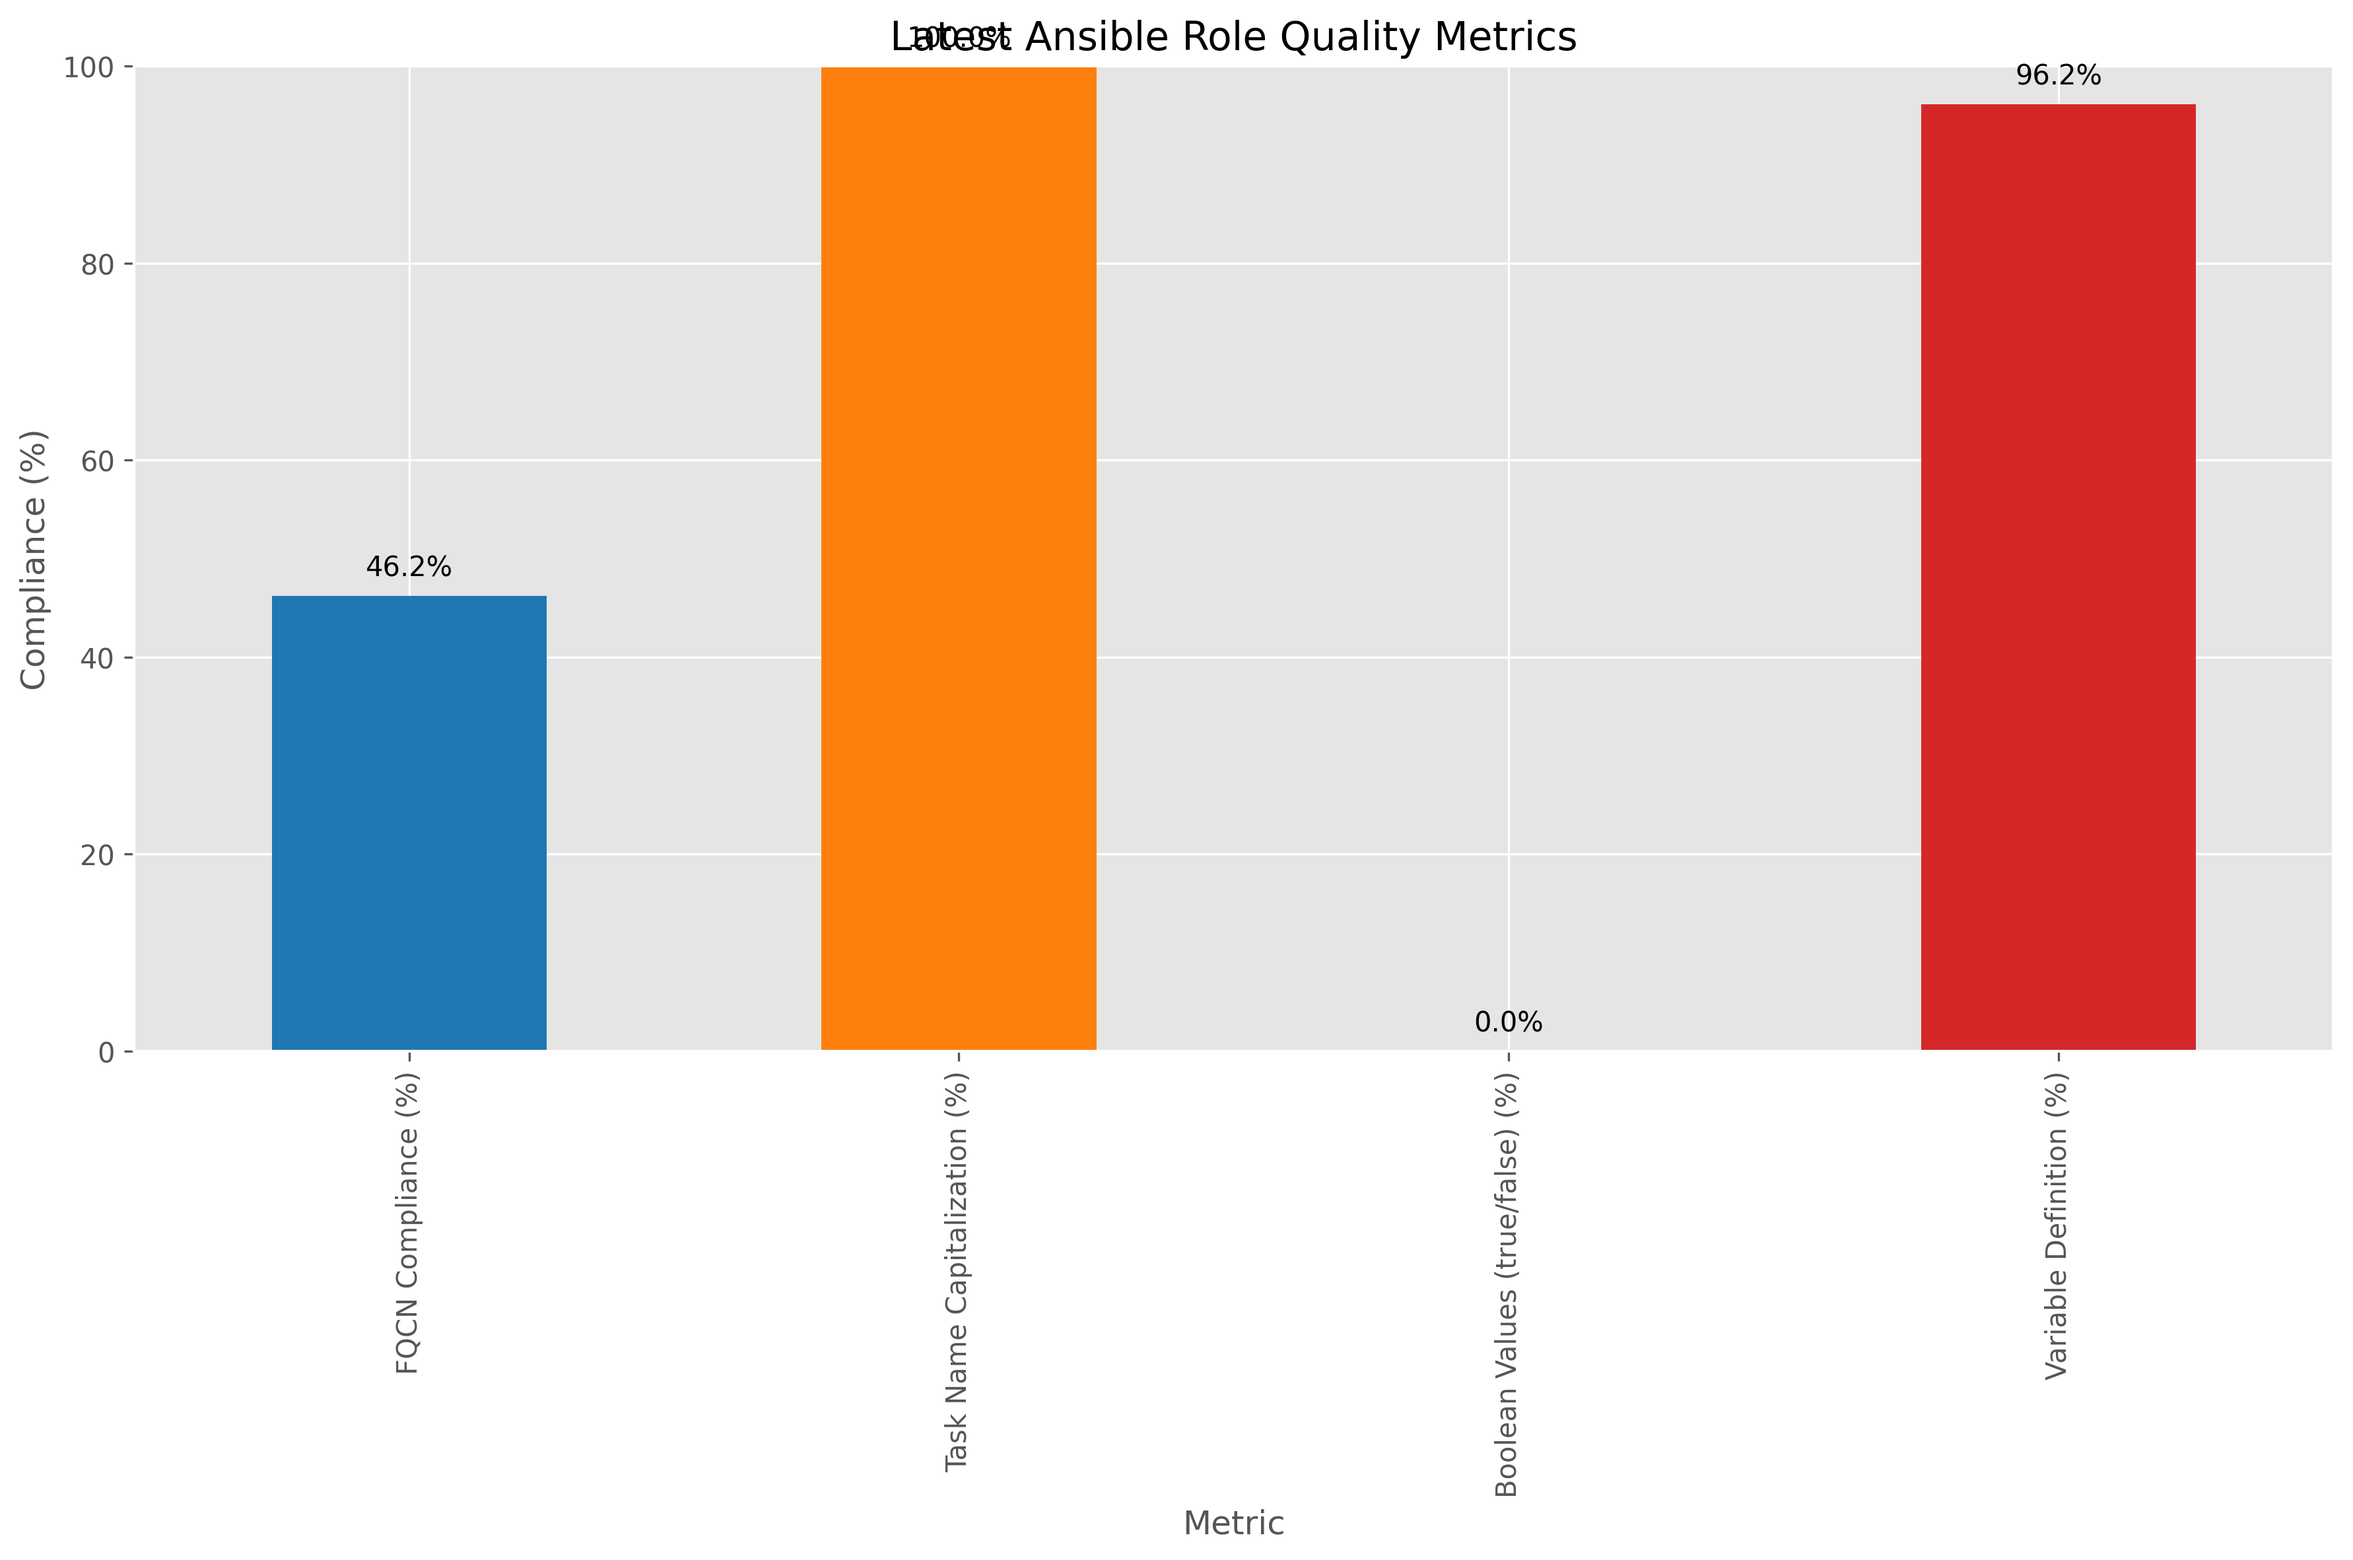
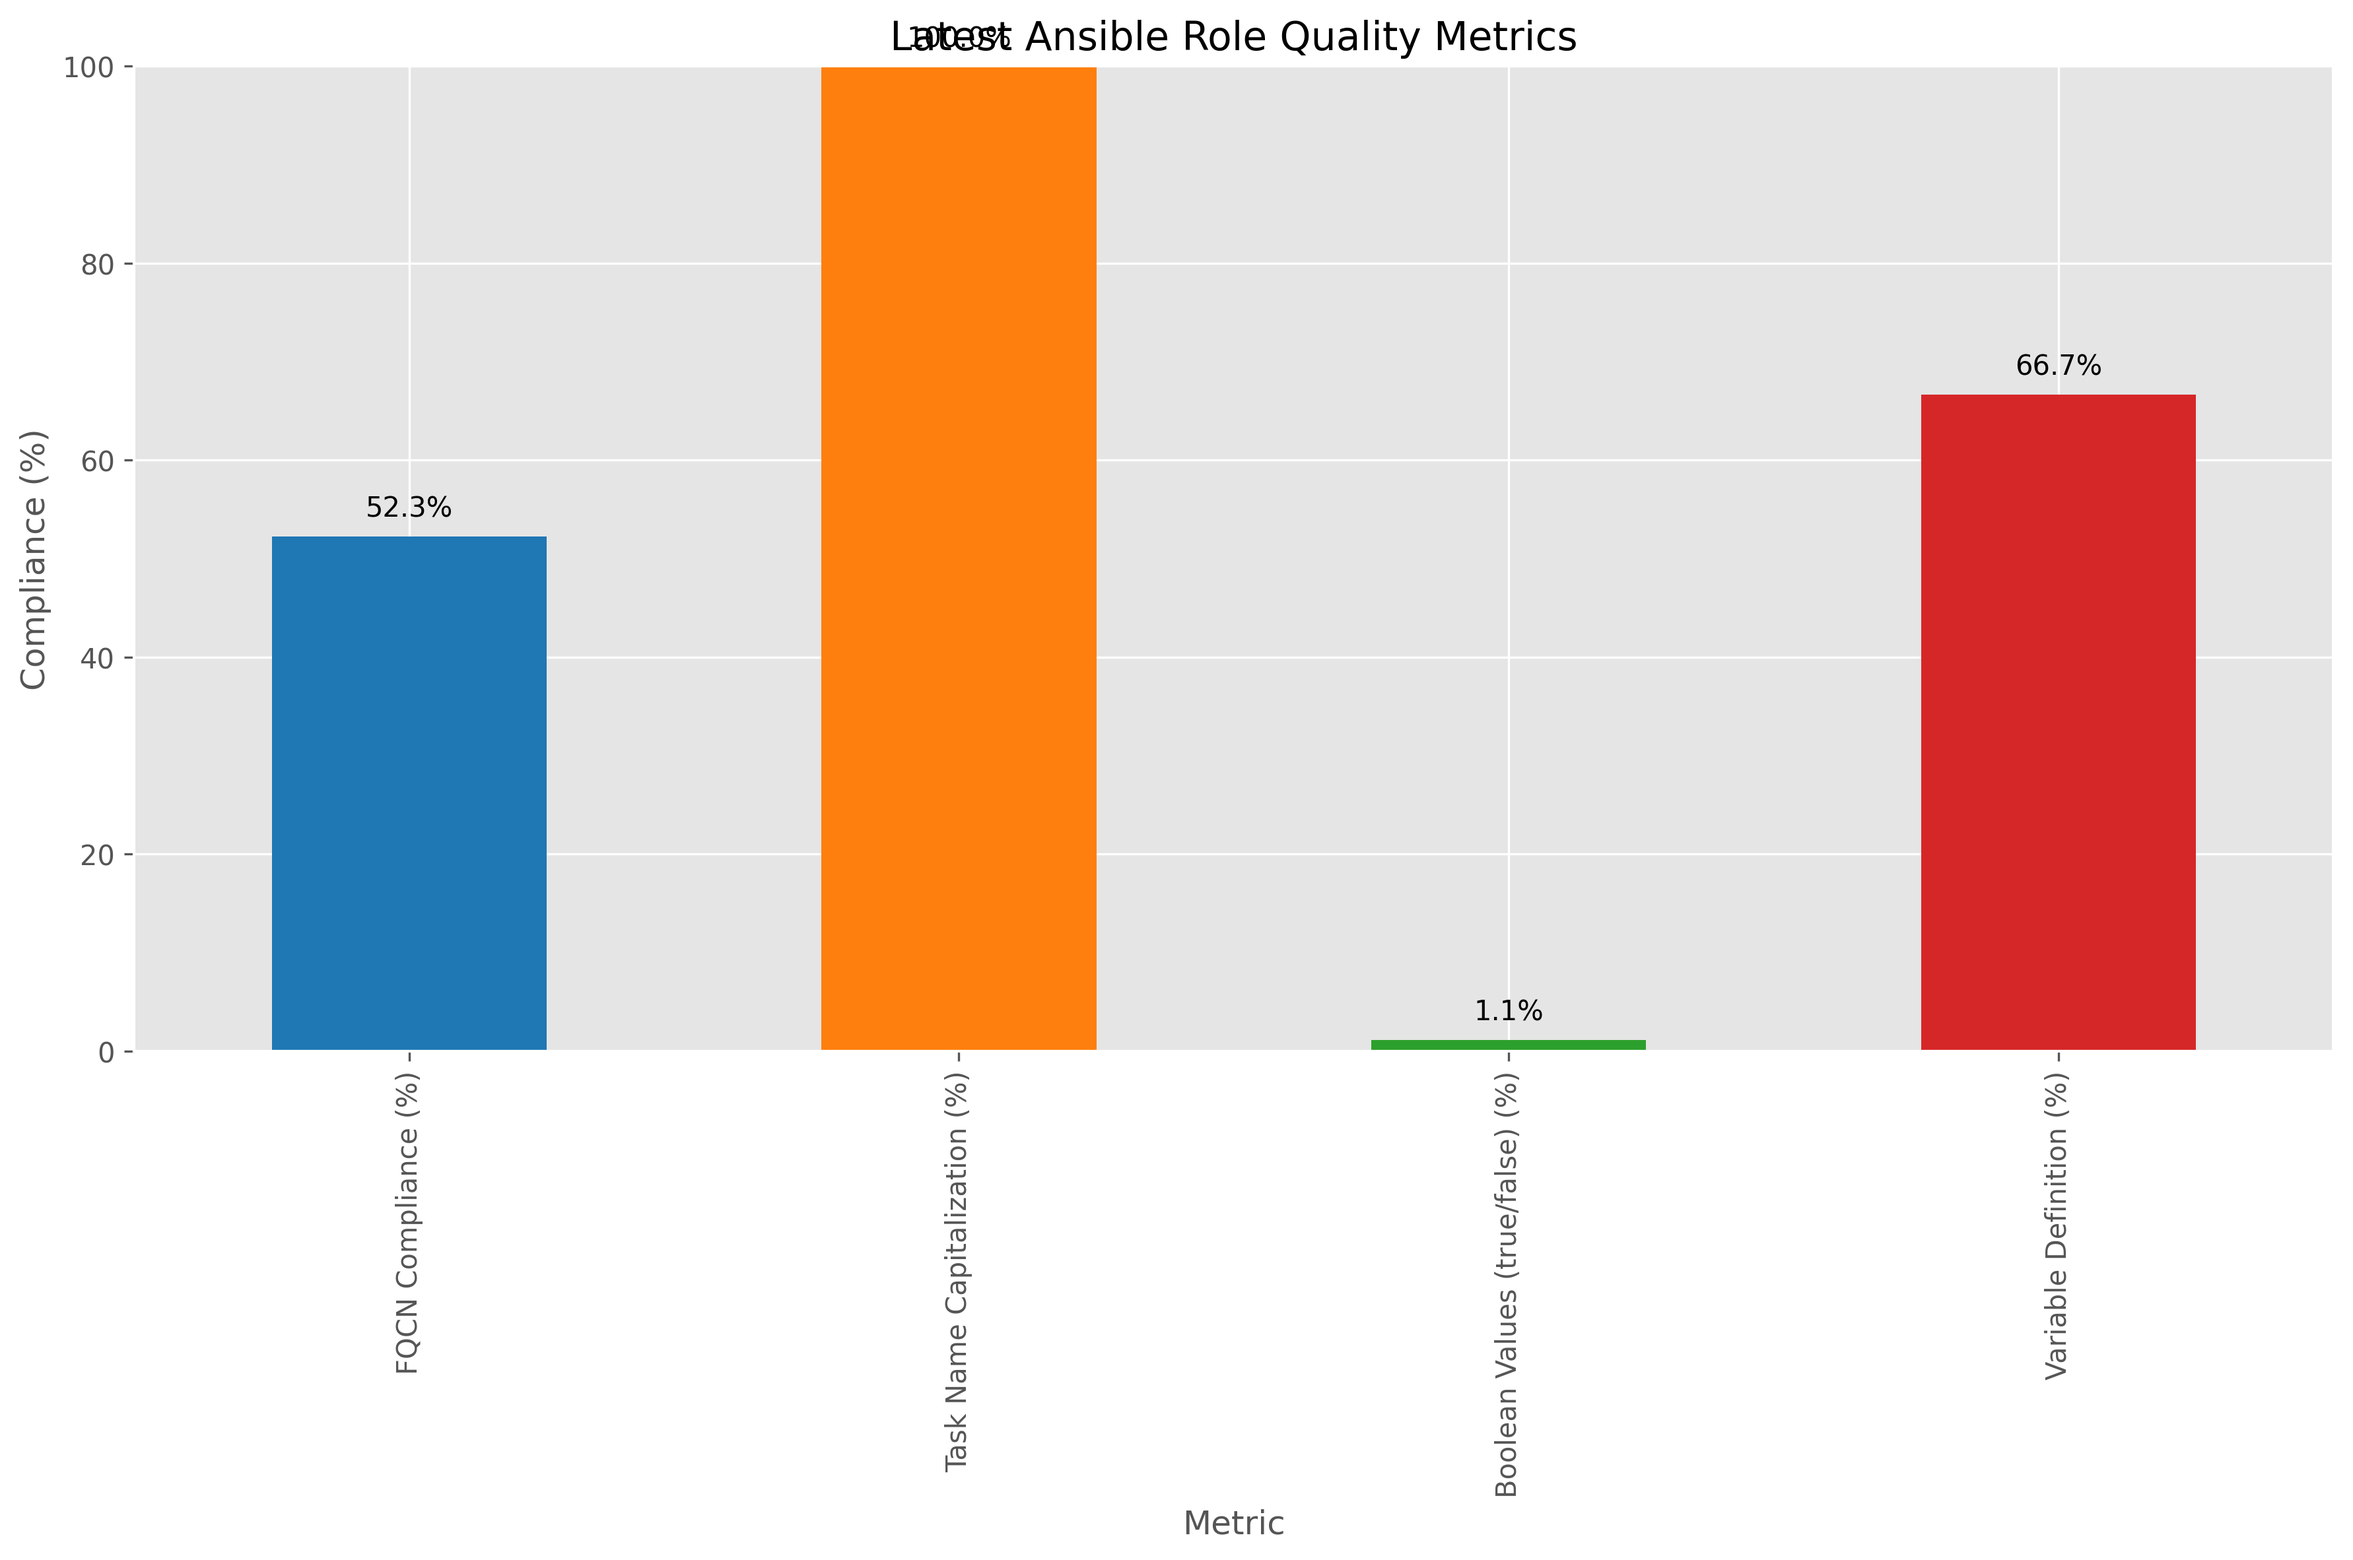
Update metrics (automated) 86381e575e3cb567ae7d61f2b827ec3665fe9a28

Changed region(s): [[0.8098, 0.0618, 0.9343, 0.2779], [0.0934, 0.3088, 0.2492, 0.4014], [0.5918, 0.6485, 0.6852, 0.6794]]

diff --git a/metrics/metrics_summary.md b/metrics/metrics_summary.md
@@ -1,15 +1,15 @@
 # Chef to Ansible Conversion Metrics
 
-Last updated: 2025-11-30 00:30:44
+Last updated: 2025-12-07 00:31:05
 
 ## Latest Compliance Metrics
 
 | Metric | Value |
 |--------|-------|
-| FQCN Compliance (%) | 46.25% |
+| FQCN Compliance (%) | 52.27% |
 | Task Name Capitalization (%) | 100.00% |
-| Boolean Values (true/false) (%) | 0.00% |
-| Variable Definition (%) | 96.15% |
+| Boolean Values (true/false) (%) | 1.14% |
+| Variable Definition (%) | 66.67% |
 
 ## Compliance Metrics Over Time
 
